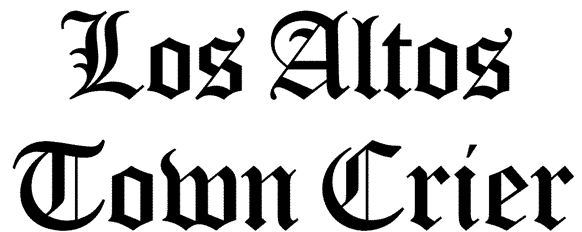
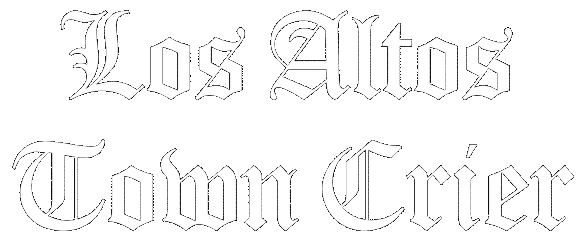
Remove comment and filter, add image alts

diff --git a/sass/_afterparty.scss b/sass/_afterparty.scss
@@ -104,12 +104,6 @@ body {
                 img {
                     max-width: 230px;
                     max-height: 100px;
-                    // &.invert {
-                    //     &:hover {
-                    //         transition: -webkit-filter 0.2s;
-                    //         -webkit-filter: invert(100%);
-                    //     }
-                    // }
                     &.darken {
                         &:hover {
                             transition: opacity 0.2s;
@@ -119,11 +113,6 @@ body {
                 }
             }
         }
-    }
-
-    // Sketchy filter
-    .invert {
-        -webkit-filter: invert(100%);
     }
     .darken {
         opacity: 0.6;
